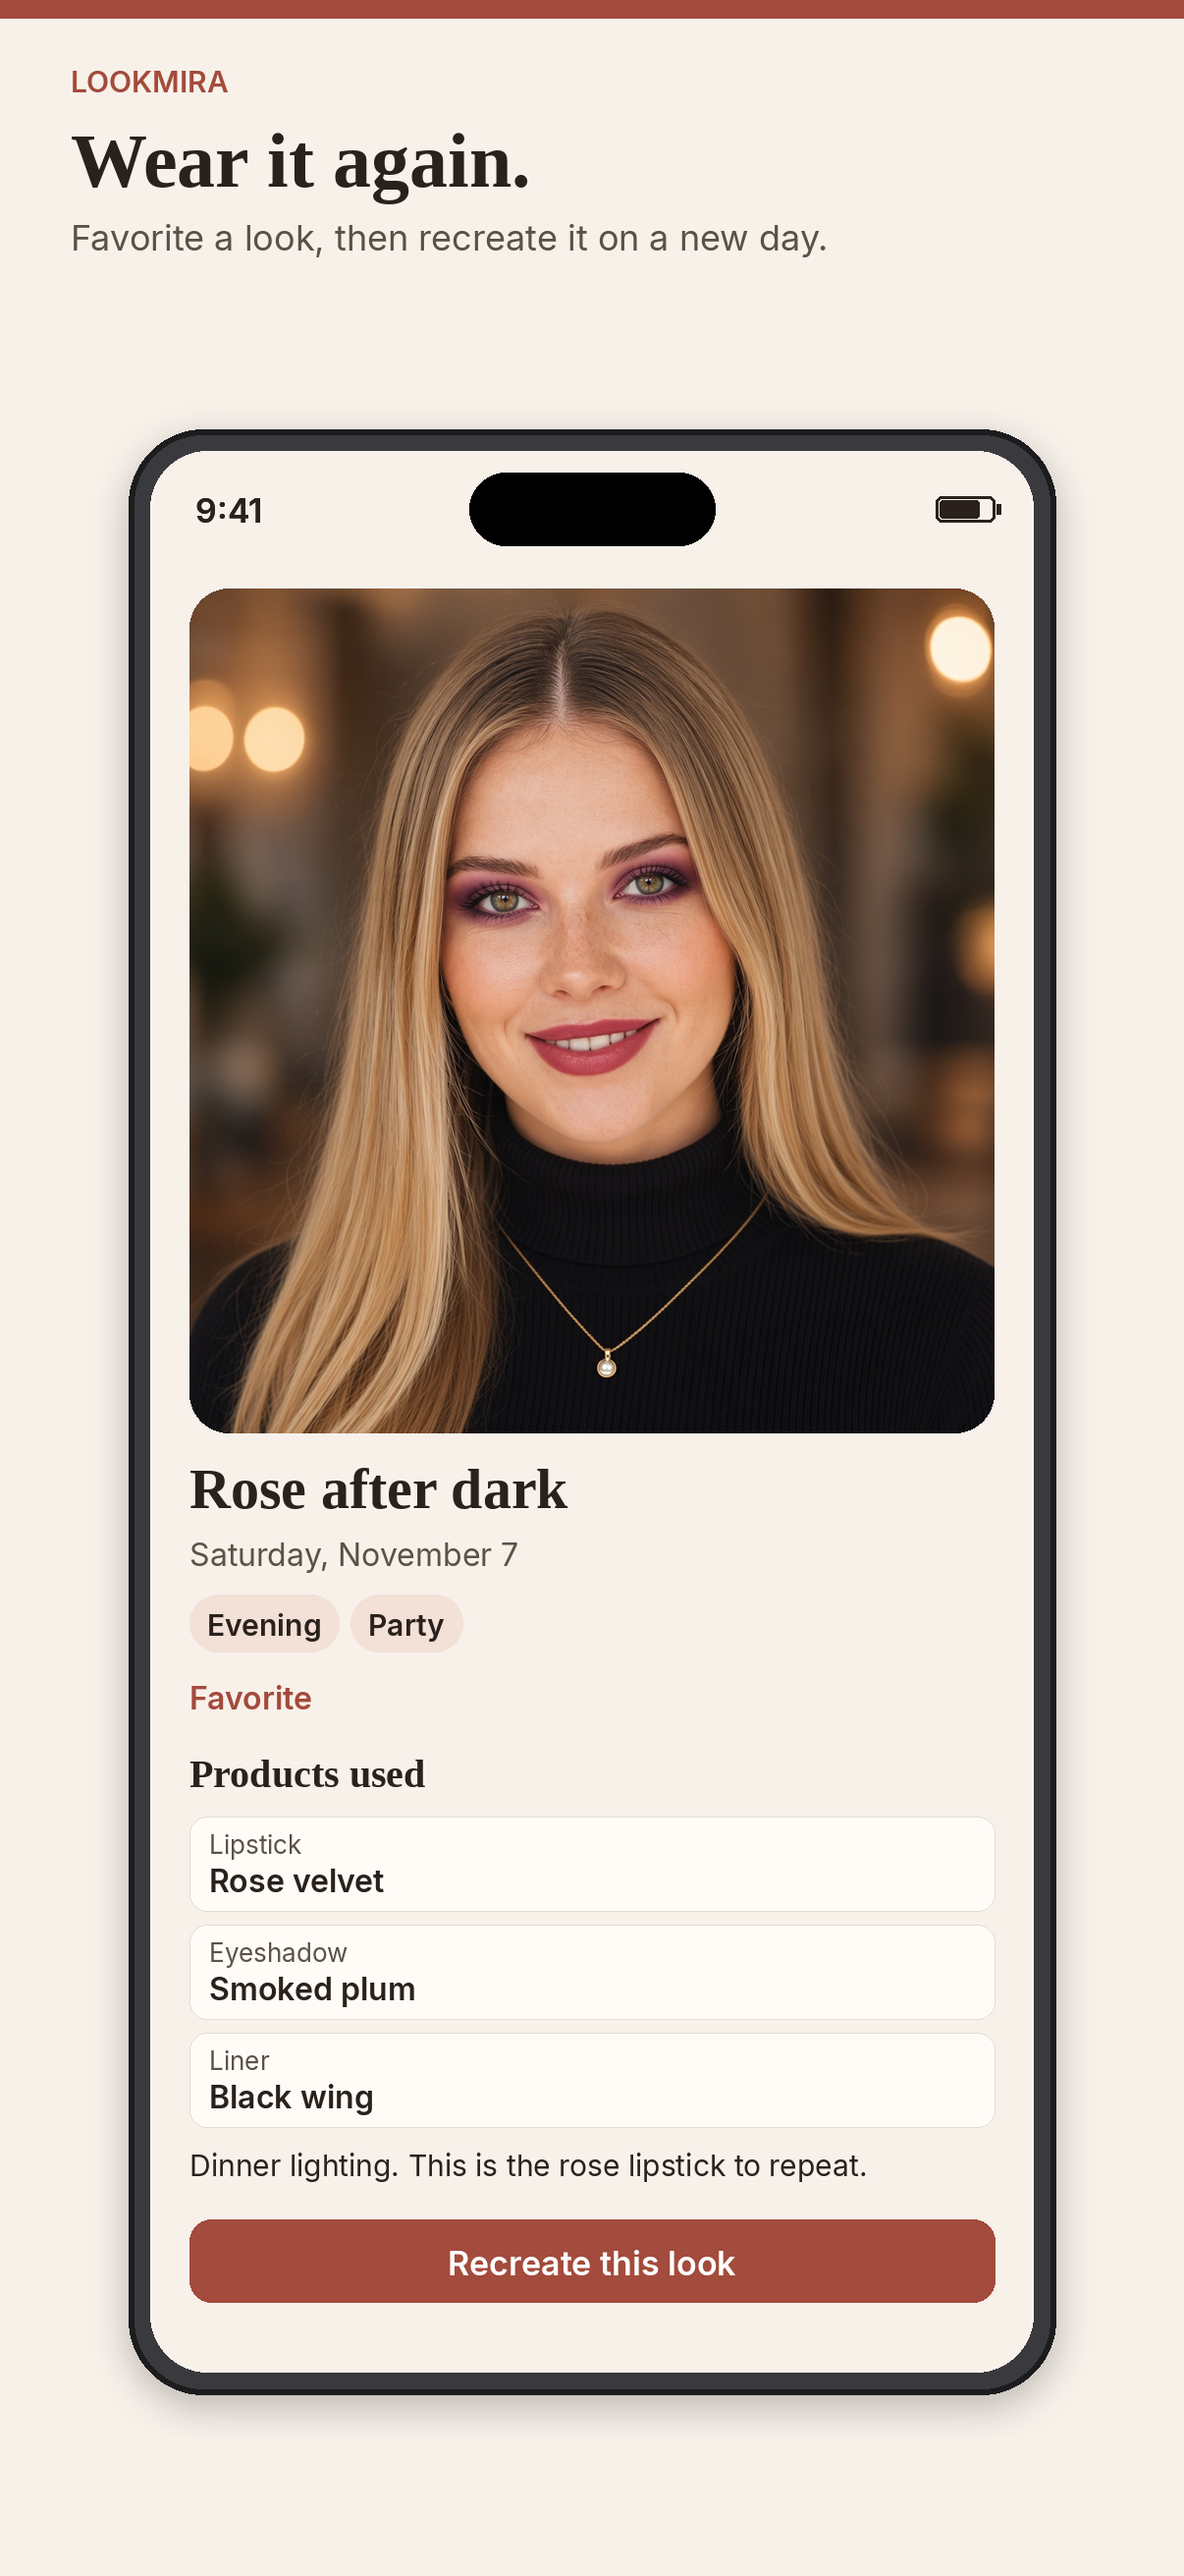
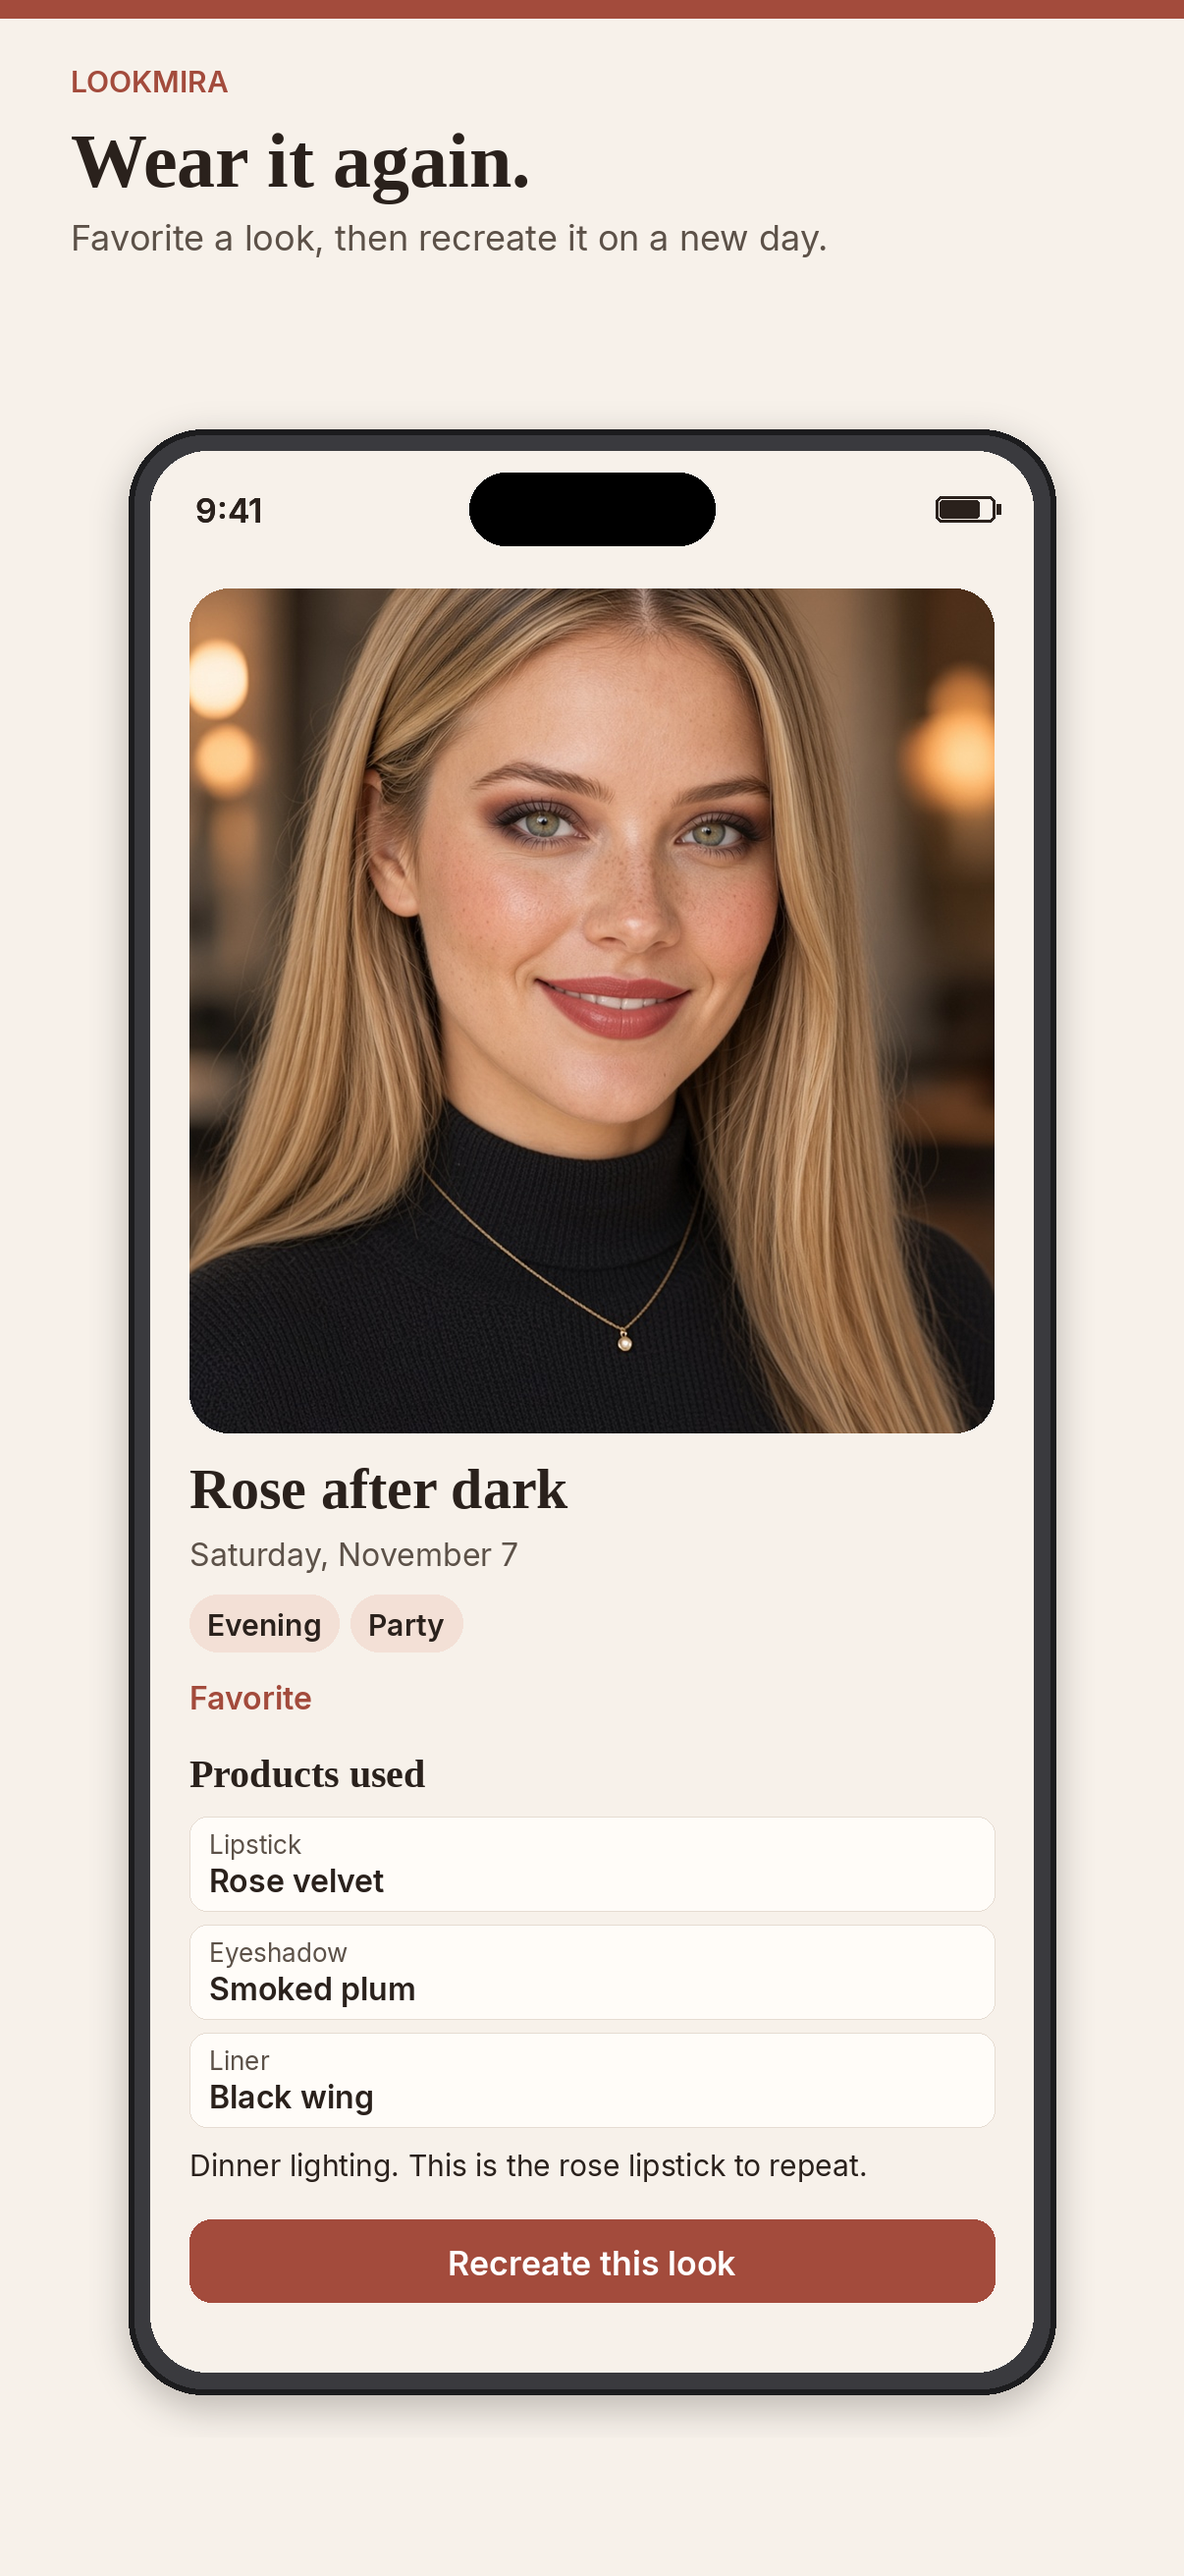
Replace Lookmira portraits with the approved artwork.
The icon and the three sample looks now use the supplied JPEGs only. Screenshots were re-rendered from those portraits.

Changed region(s): [[0.1534, 0.2162, 0.859, 0.5561], [0.4602, 0.4943, 0.5522, 0.5561]]

diff --git a/Lookmira/AppStore/render_kit.py b/Lookmira/AppStore/render_kit.py
@@ -6,7 +6,7 @@ from pathlib import Path
 from PIL import Image, ImageDraw, ImageFilter, ImageFont
 
 ROOT = Path(__file__).resolve().parents[1]
-ART = Path("/opt/cursor/artifacts/assets")
+INCOMING = ROOT / "AppStore" / "incoming"
 MODELS = ROOT / "AppStore" / "models"
 SAMPLES = ROOT / "App" / "SamplePhotos"
 ICON_DIR = ROOT / "AppStore" / "icon"
@@ -87,21 +87,13 @@ def pill(draw, xy, fill, outline=None):
     draw.rounded_rectangle(xy, radius=999, fill=fill, outline=outline)
 
 
-def make_icons(everyday):
+def make_icons(icon_path):
+    """Scale the approved full-bleed icon. The word Lookmira is already in the artwork."""
     ICON_DIR.mkdir(parents=True, exist_ok=True)
     APPICON.mkdir(parents=True, exist_ok=True)
-    plate = cover(everyday, 1024, 1024, bias=0.36)
-    draw = ImageDraw.Draw(plate)
-    word = "Lookmira"
-    size = 150
-    fnt = font(SERIF, size)
-    while text_w(draw, word, fnt) > 900 and size > 80:
-        size -= 4
-        fnt = font(SERIF, size)
-    tw = text_w(draw, word, fnt)
-    x = (1024 - tw) / 2
-    y = 860
-    draw.text((x, y), word, font=fnt, fill=INK)
+    plate = Image.open(icon_path).convert("RGB")
+    if plate.size != (1024, 1024):
+        plate = plate.resize((1024, 1024), Image.Resampling.LANCZOS)
     plate = plate.convert("RGB")
     assert plate.mode == "RGB" and plate.getbands() == ("R", "G", "B")
     kit = ICON_DIR / "AppIcon-1024.png"
@@ -354,24 +346,23 @@ def compose(screen, headline, sub, out):
 
 
 def main():
-    everyday = ART / "lookmira-everyday.jpg"
-    evening = ART / "lookmira-evening.jpg"
-    work = ART / "lookmira-work.jpg"
-    for path in (everyday, evening, work):
+    icon = INCOMING / "icon.jpg"
+    everyday = INCOMING / "hero-everyday.jpg"
+    evening = INCOMING / "evening.jpg"
+    work = INCOMING / "work.jpg"
+    for path in (icon, everyday, evening, work):
         if not path.exists():
-            raise SystemExit(f"missing portrait {path}")
+            raise SystemExit(f"missing approved artwork {path}")
     MODELS.mkdir(parents=True, exist_ok=True)
     SAMPLES.mkdir(parents=True, exist_ok=True)
-    mapping = {
-        everyday: ("everyday.jpg", "sample-everyday.jpg"),
-        evening: ("evening.jpg", "sample-evening.jpg"),
-        work: ("work.jpg", "sample-work.jpg"),
-    }
-    for src, (model_name, sample_name) in mapping.items():
-        im = Image.open(src).convert("RGB")
-        im.save(MODELS / model_name, "JPEG", quality=92)
-        im.save(SAMPLES / sample_name, "JPEG", quality=92)
-    make_icons(everyday)
+    # Keep the approved JPEG bytes. Do not re-encode or substitute another face.
+    (MODELS / "everyday.jpg").write_bytes(everyday.read_bytes())
+    (MODELS / "evening.jpg").write_bytes(evening.read_bytes())
+    (MODELS / "work.jpg").write_bytes(work.read_bytes())
+    (SAMPLES / "sample-everyday.jpg").write_bytes(everyday.read_bytes())
+    (SAMPLES / "sample-evening.jpg").write_bytes(evening.read_bytes())
+    (SAMPLES / "sample-work.jpg").write_bytes(work.read_bytes())
+    make_icons(icon)
     SHOTS.mkdir(parents=True, exist_ok=True)
     # Remove anything that is not one of the five final shots.
     for old in SHOTS.glob("*"):
